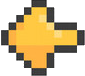
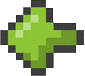
Added main menu control selection

diff --git a/src/scripts/scenes/sceneMenu.ts b/src/scripts/scenes/sceneMenu.ts
@@ -1,56 +1,155 @@
 import '../objects/basicButton'
 import BasicButton from '../objects/basicButton';
 
+enum Controls { LEFT_RIGHT = 0, UP_DOWN };
+
 export default class SceneMenu extends Phaser.Scene {
   private startButton: BasicButton;
+  private controlsLRButton: BasicButton;
+  private controlsUDButton: BasicButton;
 
   private startButtonScale: number = 1.5;
   private startButtonHoverScale: number = 1.55;
 
-    constructor() {
-      super({ key: 'SceneMenu' })
-    }
+  private selectedControls: Controls = Controls.LEFT_RIGHT;
 
-    private create(): void {
-      this.add.image(this.cameras.main.centerX, 100, 'image_logo');
+  constructor() {
+    super({ key: 'SceneMenu' })
+  }
 
-      this.startButton = new BasicButton(
-        this, 
-        new Phaser.Math.Vector2(
-          this.cameras.main.centerX,
-          this.cameras.main.centerY
-        ),
-        'sprite_sheet_start',
-        this.startButtonScale,
-        'sound_button_pressed'
-      );
+  private create(): void {
+    this.add.image(this.cameras.main.centerX, 100, 'image_logo');
+
+    this.startButton = new BasicButton(
+      this, 
+      new Phaser.Math.Vector2(
+        this.cameras.main.centerX,
+        this.cameras.main.height * 0.4
+      ),
+      'sprite_sheet_start',
+      this.startButtonScale,
+      undefined,
+      'sound_button_pressed'
+    );
+    
+    this.startButton.on('pointerover', this.handleHoverStartButton, this);
+    this.startButton.on('pointerout', this.handleEndHoverStartButton, this);
+    this.startButton.on('pointerdown', this.handlePressedStartButton, this);
+
+    this.controlsLRButton = new BasicButton(
+      this,
+      new Phaser.Math.Vector2(
+        this.cameras.main.width * 0.23,
+        this.cameras.main.height * 0.66
+      ),
+      'sprite_arrows',
+      undefined,
+      undefined,
+      'sound_button_pressed'
+    );
+
+    this.controlsUDButton = new BasicButton(
+      this,
+      new Phaser.Math.Vector2(
+        this.cameras.main.width * 0.76,
+        this.cameras.main.height * 0.66
+      ),
+      'sprite_arrows',
+      undefined,
+      90,
+      'sound_button_pressed'
+    );
+    
+    this.switchControls(this.selectedControls);
+
+    this.controlsLRButton.on('pointerover', this.handleHoverLRControlArrows, this);
+    this.controlsUDButton.on('pointerover', this.handleHoverUDControlArrows, this);
+    this.controlsLRButton.on('pointerout', this.handleEndHoverControlArrows, this);
+    this.controlsUDButton.on('pointerout', this.handleEndHoverControlArrows, this);
+    this.controlsLRButton.on('pointerdown', this.handlePressedLRControlArrows, this);
+    this.controlsUDButton.on('pointerdown', this.handlePressedUDControlArrows, this);
+  }
+
+  private switchControls(controls: Controls, withColor: boolean = true, withScale: boolean = true): void {
+    if (controls === Controls.LEFT_RIGHT) {
+      if (withColor) {
+        this.controlsLRButton.setFrame(0);
+        this.controlsUDButton.setFrame(1);
+      }
+
+      if (withScale) {
+        this.controlsLRButton.setScale(1.15);
+        this.controlsUDButton.setScale(1.00);
+      }
       
-      this.startButton.setInteractive();
-
-      this.startButton.on('pointerover', this.handleHoverStartButton, this);
-      this.startButton.on('pointerout', this.handleEndHoverStartButton, this);
-      this.startButton.on('pointerdown', this.handlePressedStartButton, this);
+    } else {
+      if (withColor) {
+        this.controlsLRButton.setFrame(1);
+        this.controlsUDButton.setFrame(0);
+      }
+      
+      if (withScale) {
+        this.controlsLRButton.setScale(1.00);
+        this.controlsUDButton.setScale(1.15);
+      }
     }
+  }
 
-    private handleHoverStartButton(context: any) {
-      this.startButton.setFrame(1);
+  private handleHoverStartButton(context: any) {
+    this.startButton.setFrame(1);
 
-      this.startButton.setScale(this.startButtonHoverScale);
+    this.startButton.setScale(this.startButtonHoverScale);
 
-      this.startButton.playSound();
-    }
+    this.startButton.playSound();
+  }
 
-    private handleEndHoverStartButton(context: any) {
-      this.startButton.setFrame(0);
+  private handleEndHoverStartButton(context: any) {
+    this.startButton.setFrame(0);
 
-      this.startButton.setScale(this.startButtonScale);
-    }
+    this.startButton.setScale(this.startButtonScale);
+  }
 
-    private handlePressedStartButton(context: any) {
-      this.startButton.off('pointerover');
-      this.startButton.off('pointerout');
-      this.startButton.off('pointerdown');
+  private handlePressedStartButton(context: any) {
+    this.startButton.off('pointerover');
+    this.startButton.off('pointerout');
+    this.startButton.off('pointerdown');
 
-      this.scene.start('PreloadLevel');
-    }
+    this.controlsLRButton.off('pointerover');
+    this.controlsLRButton.off('pointerout');
+    this.controlsLRButton.off('pointerdown');
+
+    this.controlsUDButton.off('pointerover');
+    this.controlsUDButton.off('pointerout');
+    this.controlsUDButton.off('pointerdown');
+
+    this.scene.start('PreloadLevel');
+  }
+
+  private handleHoverLRControlArrows(context: any) {
+    this.switchControls(Controls.LEFT_RIGHT, false);
+
+    this.controlsLRButton.playSound();
+  }
+
+  private handleHoverUDControlArrows(context: any) {
+    this.switchControls(Controls.UP_DOWN, false);
+
+    this.controlsUDButton.playSound();
+  }
+
+  private handleEndHoverControlArrows(context: any) {
+    this.switchControls(this.selectedControls);
+  }
+
+  private handlePressedLRControlArrows(context: any) {
+    this.selectedControls = Controls.LEFT_RIGHT;
+
+    this.switchControls(this.selectedControls);
+  }
+
+  private handlePressedUDControlArrows(context: any) {
+    this.selectedControls = Controls.UP_DOWN;
+
+    this.switchControls(this.selectedControls);
+  }
 }

diff --git a/src/scripts/objects/basicButton.ts b/src/scripts/objects/basicButton.ts
@@ -1,14 +1,23 @@
 export default class BasicButton extends Phaser.GameObjects.Sprite {
-    private buttonSound?: Phaser.Sound.BaseSound;
+    private readonly buttonSound?: Phaser.Sound.BaseSound;
 
-    constructor(scene: Phaser.Scene, pos: Phaser.Math.Vector2, mappingKey: string, scale: number = 1.0, soundKey?: string ) {
+    constructor(scene: Phaser.Scene, pos: Phaser.Math.Vector2, mappingKey: string, scale?: number, angleRotation?: number, soundKey?: string ) {
         super(scene, pos.x, pos.y, mappingKey);
 
-        this.setScale(scale);
+        if (scale) {
+            this.setScale(scale);
+        }
+        
+        if (angleRotation) {
+            this.setOrigin(0.5, 0.5);
+            this.setAngle(angleRotation);
+        }
 
         if (soundKey) {
             this.buttonSound = scene.sound.add(soundKey, {} );
         }
+
+        this.setInteractive();
 
         scene.add.existing(this);
 
@@ -37,8 +46,6 @@ export default class BasicButton extends Phaser.GameObjects.Sprite {
      }
 
      public playSound(): void {
-         if(this.buttonSound) {
-            this.buttonSound.play();
-         }
+        this.buttonSound?.play();
      }
   }

diff --git a/src/scripts/scenes/preloadMenu.ts b/src/scripts/scenes/preloadMenu.ts
@@ -6,7 +6,23 @@ export default class PreloadMenu extends Phaser.Scene {
     private preload(): void {
         this.load.image('image_logo', 'assets/img/logo.png');
 
-        this.load.spritesheet('sprite_sheet_start', 'assets/img/buttons/sprite_sheet_start.png', { frameWidth: 191, frameHeight: 69 });
+        this.load.spritesheet(
+            'sprite_arrows', 
+            'assets/img/buttons/arrows.png', 
+            { 
+                frameWidth: 190, 
+                frameHeight: 76 
+            }
+        );
+
+        this.load.spritesheet(
+            'sprite_sheet_start', 
+            'assets/img/buttons/sprite_sheet_start.png', 
+            { 
+                frameWidth: 191, 
+                frameHeight: 69 
+            }
+        );
 
         this.load.audio('sound_button_pressed', 'assets/img/sfx_sounds_button6.wav');
     }
